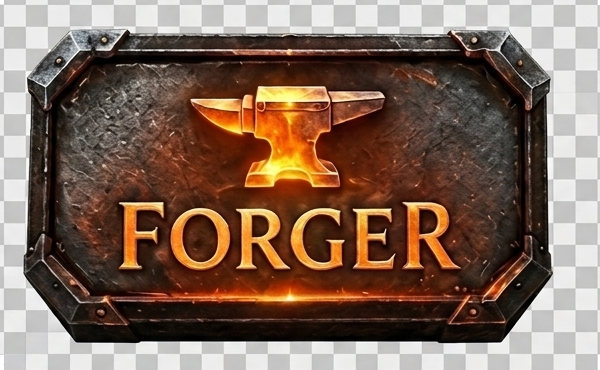
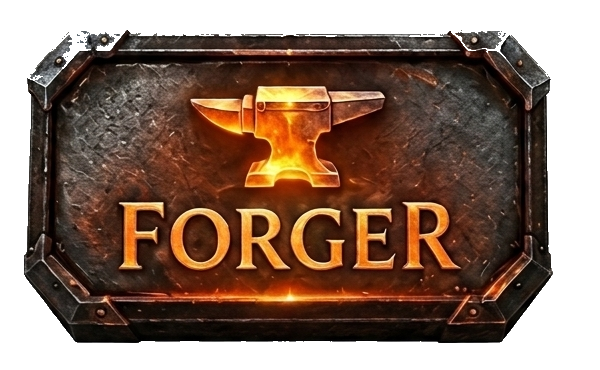
Static FORGER button: remove spin, clean checkerboard background, add press bounce + haptic

Changed region(s): [[0.0, 0.0, 1.0, 1.0]]

diff --git a/artifacts/mobile/app/(tabs)/index.tsx b/artifacts/mobile/app/(tabs)/index.tsx
@@ -3,8 +3,8 @@ import {
   ActivityIndicator,
   Animated,
   AppState,
-  Easing,
   FlatList,
+  Image,
   ImageBackground,
   Modal,
   Platform,
@@ -910,7 +910,7 @@ export default function ForgeScreen() {
   const [overheated, setOverheated] = useState(false); // flash state
 
   const sceneRef = useRef<ForgeScene3DRef>(null);
-  const forgeSpinRef = useRef(new Animated.Value(0));
+  const forgePressRef = useRef(new Animated.Value(1));
   const hitTimerRef = useRef<ReturnType<typeof setTimeout> | null>(null);
   const temperatureRef = useRef(0); // readable inside callbacks without stale closure
   // ── Quench gauge ──
@@ -924,23 +924,23 @@ export default function ForgeScreen() {
   const headerTopPad = Platform.OS === 'web' ? 67 : insets.top;
   const bottomPad = insets.bottom + (Platform.OS === 'web' ? 34 : 0) + 80;
 
-  // Slow continuous spin of the FORGER artwork button above the anvil
-  useEffect(() => {
-    const loop = Animated.loop(
-      Animated.timing(forgeSpinRef.current, {
-        toValue: 1,
-        duration: 9000,
-        easing: Easing.linear,
-        useNativeDriver: true,
-      })
-    );
-    loop.start();
-    return () => loop.stop();
-  }, []);
-  const forgeSpin = forgeSpinRef.current.interpolate({
-    inputRange: [0, 1],
-    outputRange: ['0deg', '360deg'],
-  });
+  // Press feedback: slight shrink + bounce on the FORGER artwork button
+  const onForgePressIn = () => {
+    Animated.spring(forgePressRef.current, {
+      toValue: 0.88,
+      useNativeDriver: true,
+      speed: 40,
+      bounciness: 0,
+    }).start();
+  };
+  const onForgePressOut = () => {
+    Animated.spring(forgePressRef.current, {
+      toValue: 1,
+      useNativeDriver: true,
+      speed: 16,
+      bounciness: 12,
+    }).start();
+  };
 
   // Init audio on mount + weather cycle + forge ambience
   useEffect(() => {
@@ -1446,14 +1446,21 @@ export default function ForgeScreen() {
             {/* FORGER — artwork button centered just above the bottom tab bar */}
             <View style={[md.forgeOverAnvil, { bottom: bottomPad + 8 }]} pointerEvents="box-none">
               <TouchableOpacity
-                onPress={() => setShowRecipeSheet(true)}
-                activeOpacity={0.82}
+                onPress={() => {
+                  Haptics.impactAsync(Haptics.ImpactFeedbackStyle.Medium);
+                  setShowRecipeSheet(true);
+                }}
+                onPressIn={onForgePressIn}
+                onPressOut={onForgePressOut}
+                activeOpacity={1}
               >
-                <Animated.Image
-                  source={require('../../assets/images/forge-btn.png')}
-                  style={[md.forgeBtnArt, { transform: [{ rotate: forgeSpin }] }]}
-                  resizeMode="contain"
-                />
+                <Animated.View style={{ transform: [{ scale: forgePressRef.current }] }}>
+                  <Image
+                    source={require('../../assets/images/forge-btn.png')}
+                    style={md.forgeBtnArt}
+                    resizeMode="contain"
+                  />
+                </Animated.View>
               </TouchableOpacity>
             </View>
 
